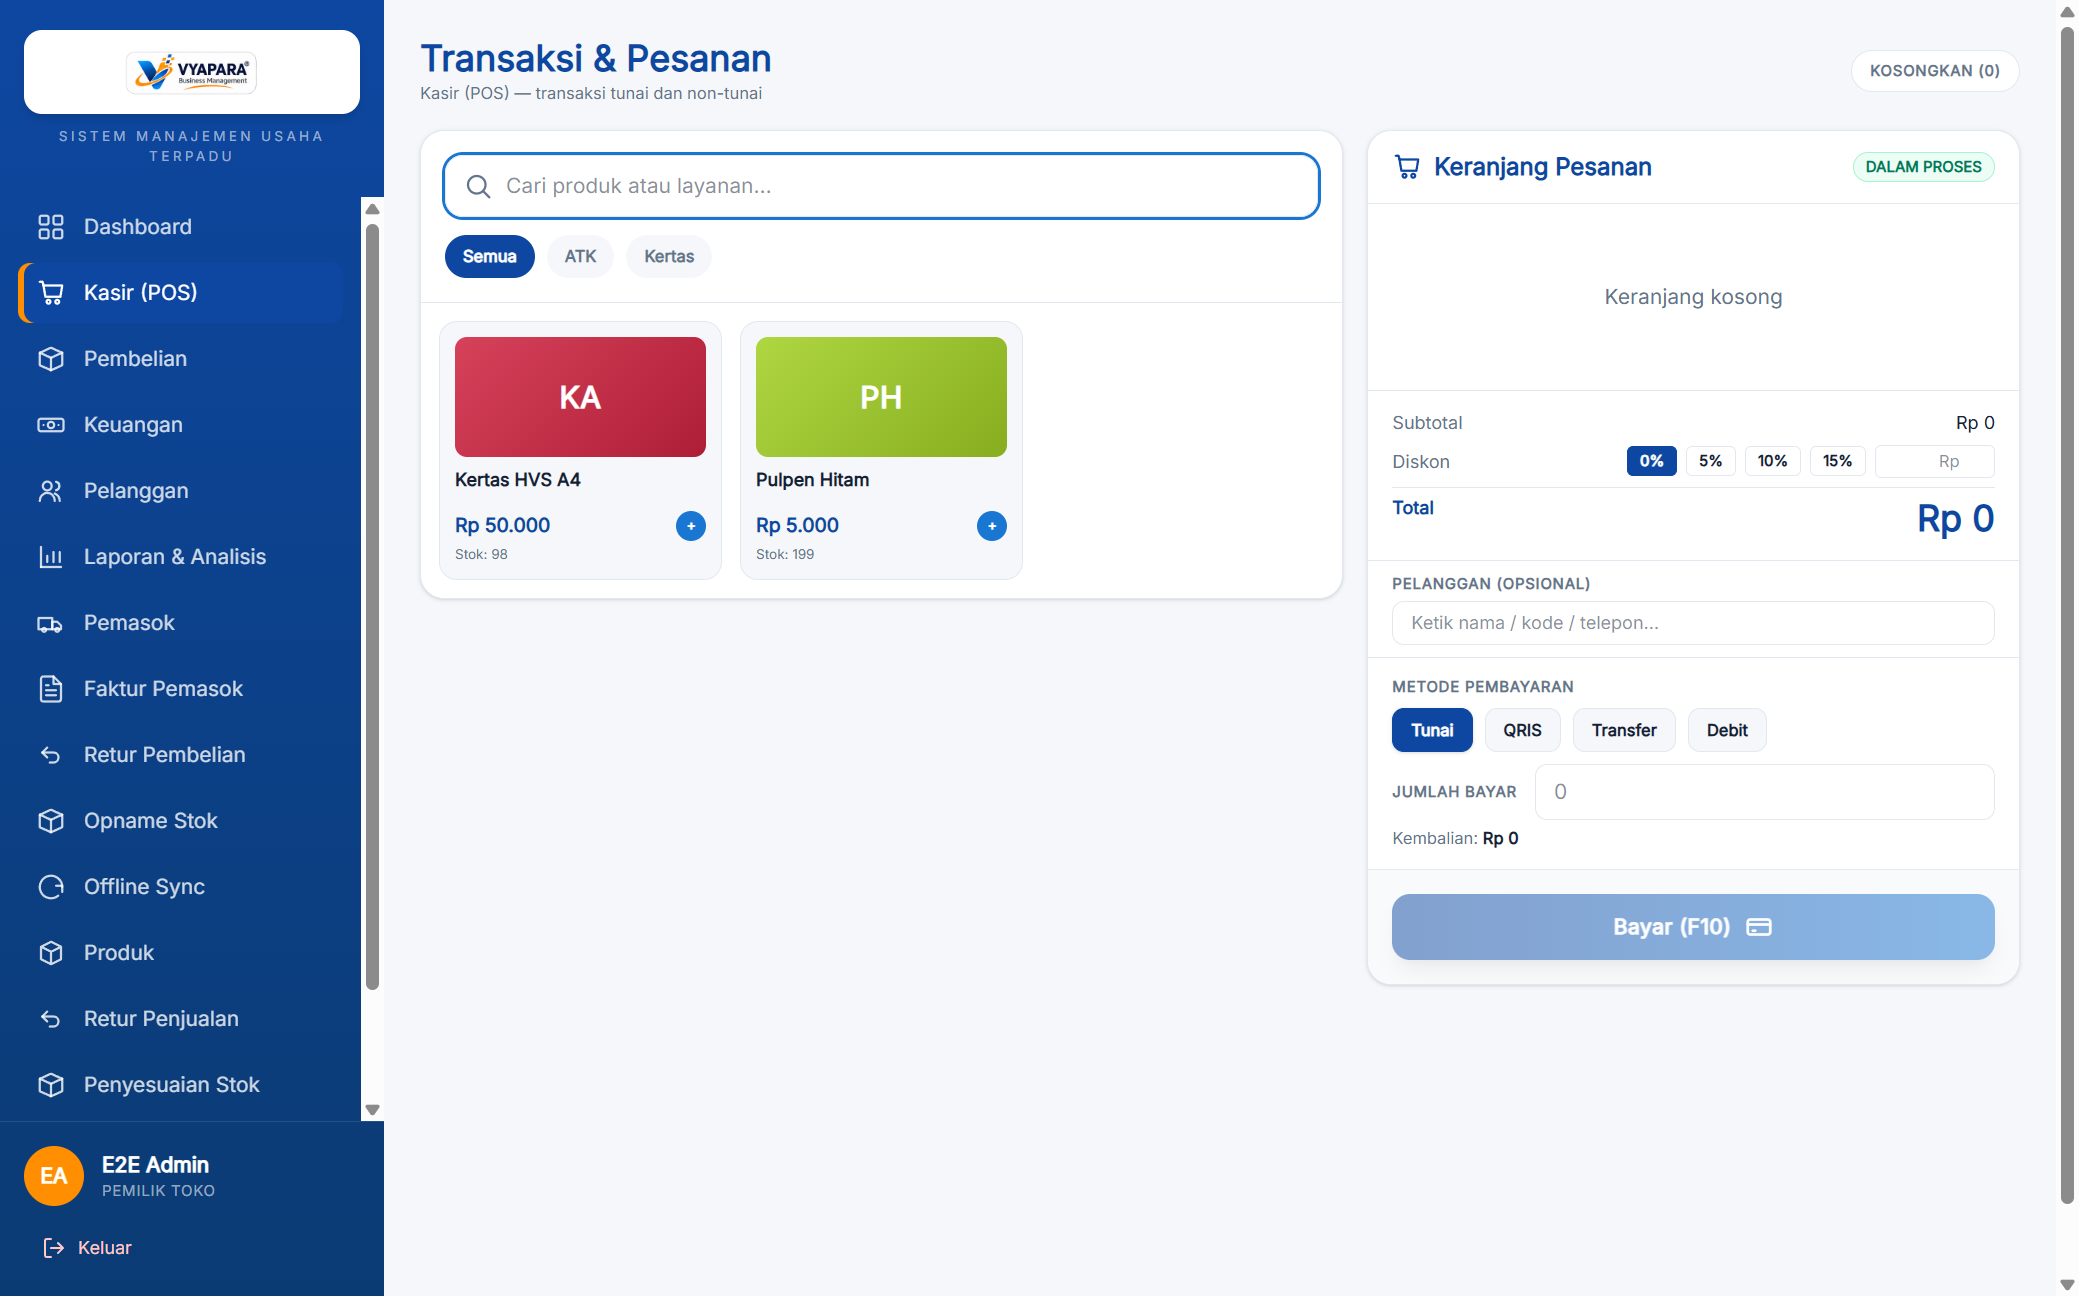
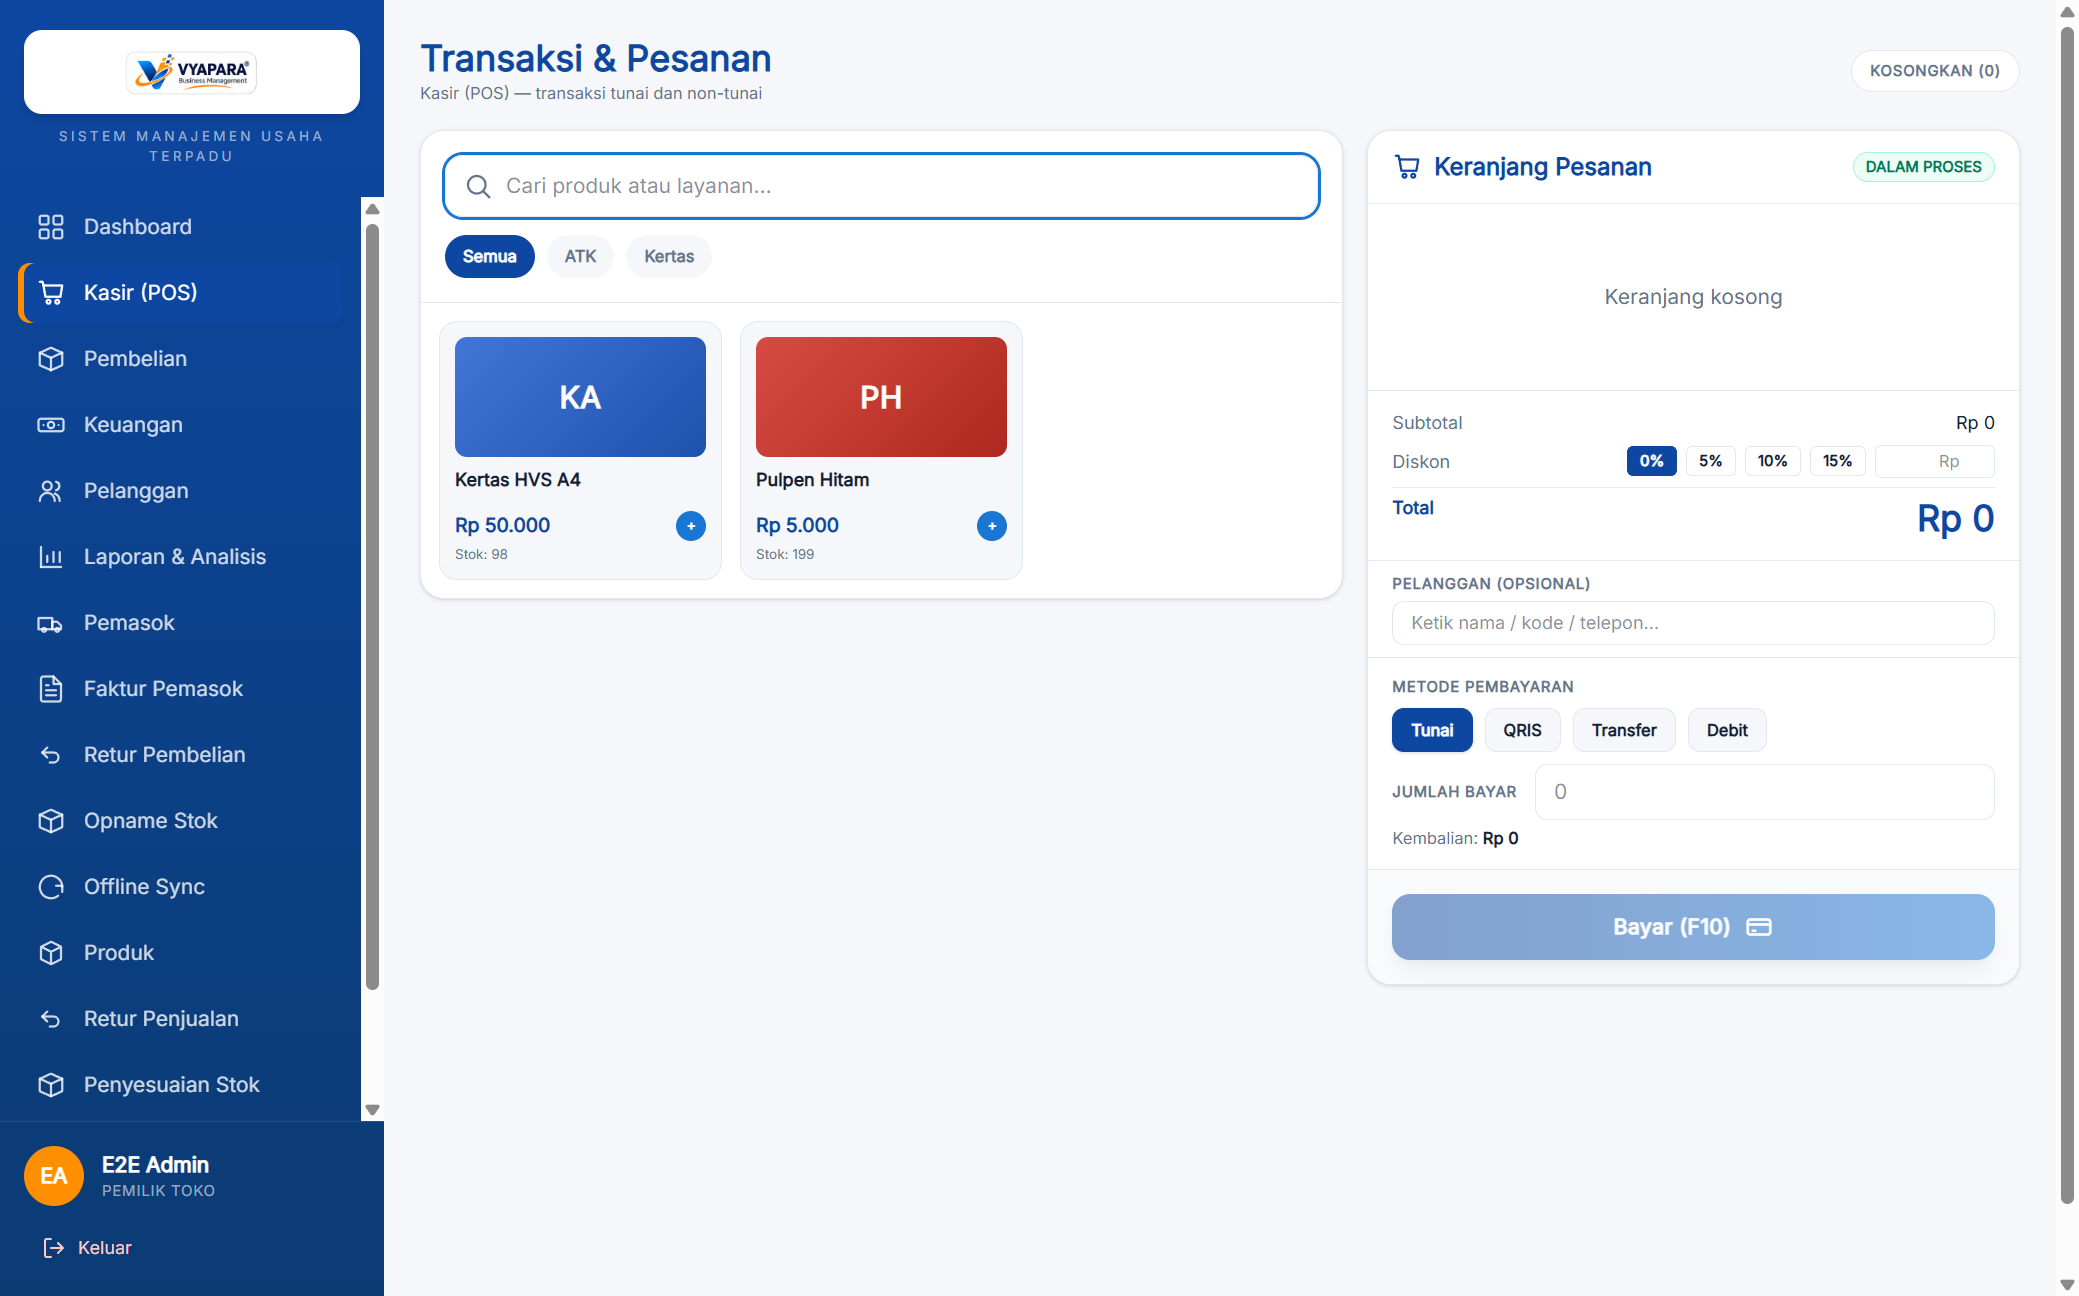
fix(installer): clean installers have zero seeded accounts
- ensureSuperadmin only runs when VYAPARA_DEV_SEED_SUPERADMIN=1 (dev/test)
- New script scripts/create-superadmin.mjs promotes/creates a superadmin manually
- All E2E scripts updated for test parity; all green

Changed region(s): [[0.2155, 0.2469, 0.4925, 0.3704]]

diff --git a/apps/desktop/electron/main/main.ts b/apps/desktop/electron/main/main.ts
@@ -2613,7 +2613,11 @@ function createWindow() {
 
 app.whenReady().then(() => {
   const db = getDb();
-  ensureSuperadmin(db);
+  // Only seed the built-in superadmin in DEV mode so shipped installers are clean.
+  if (process.env.VYAPARA_DEV_SEED_SUPERADMIN === '1') {
+    ensureSuperadmin(db);
+    console.warn('[DEV] VYAPARA_DEV_SEED_SUPERADMIN=1 — seeded superadmin for local development');
+  }
   void verifyLicense(db).catch(() => { /* verified lazily at next launch */ });
   initSyncCoordinator(db).start();
   if (app.isPackaged) {
